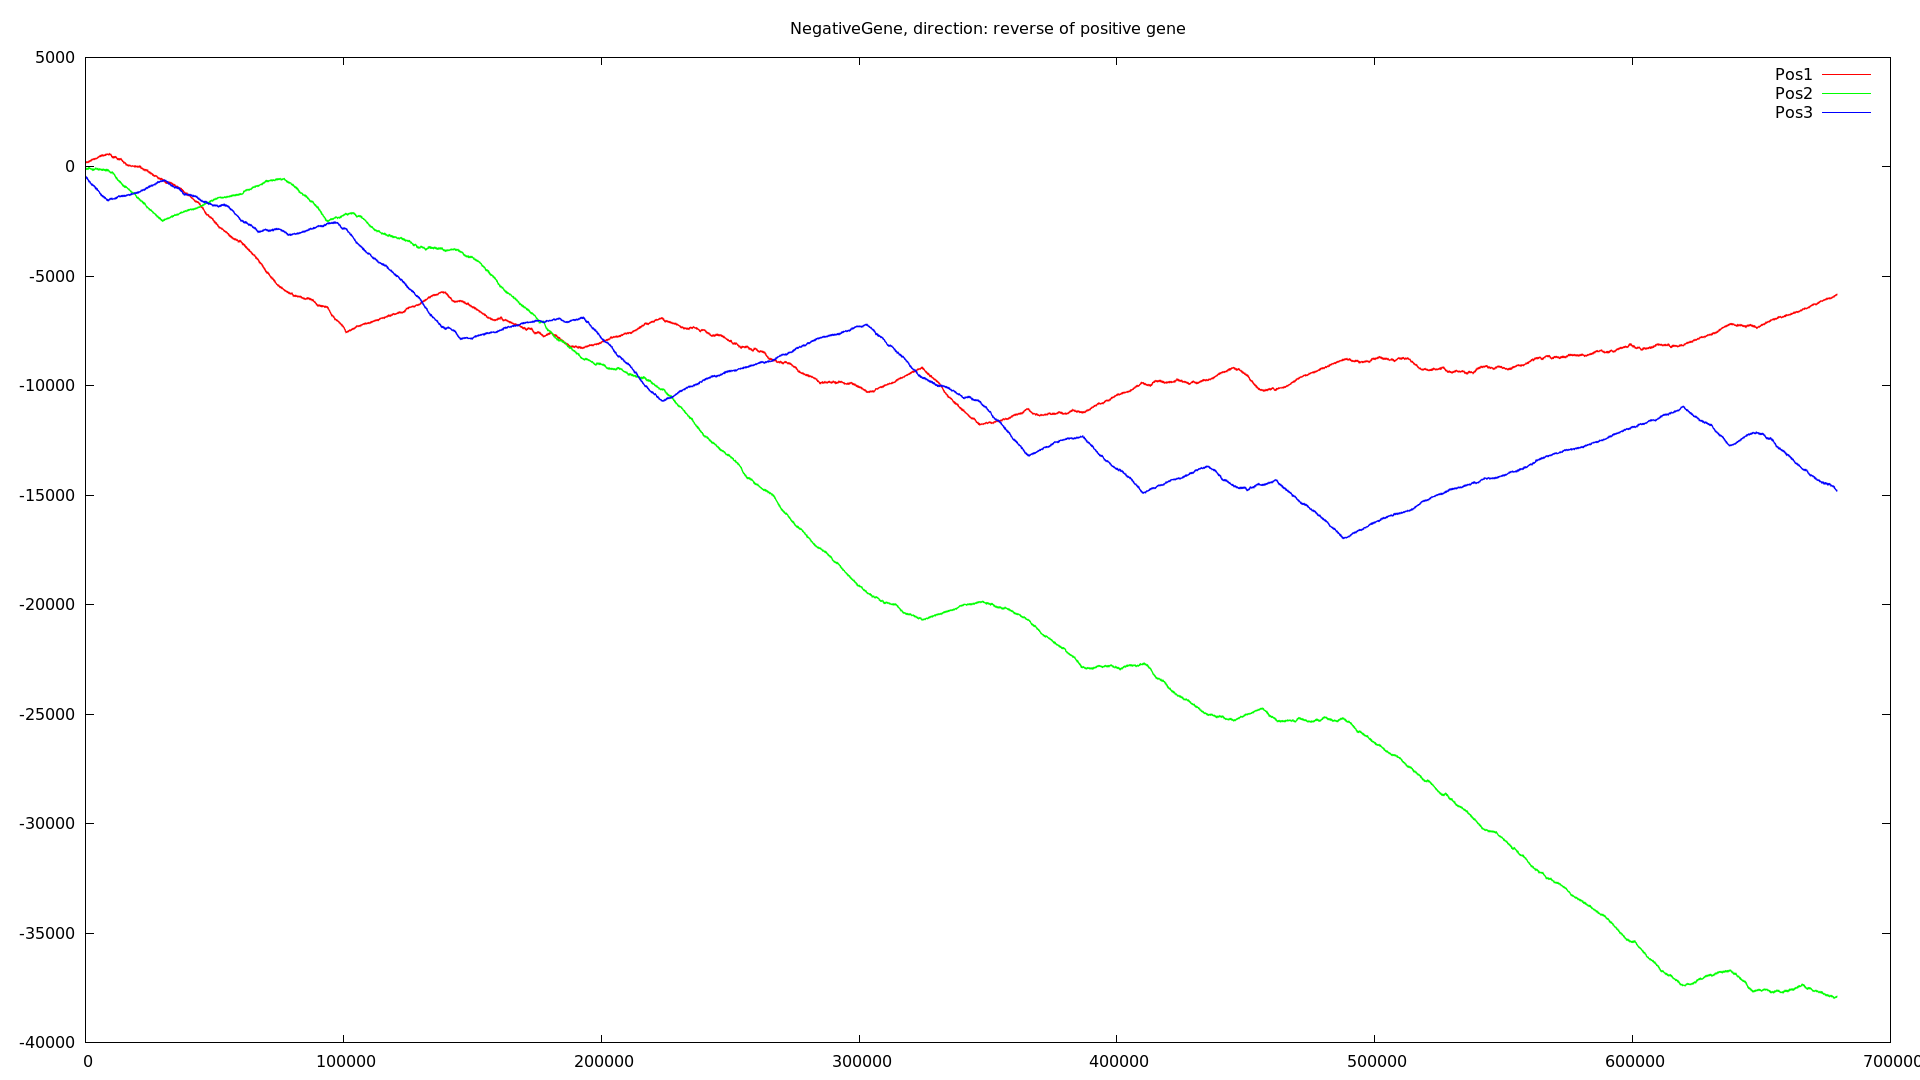
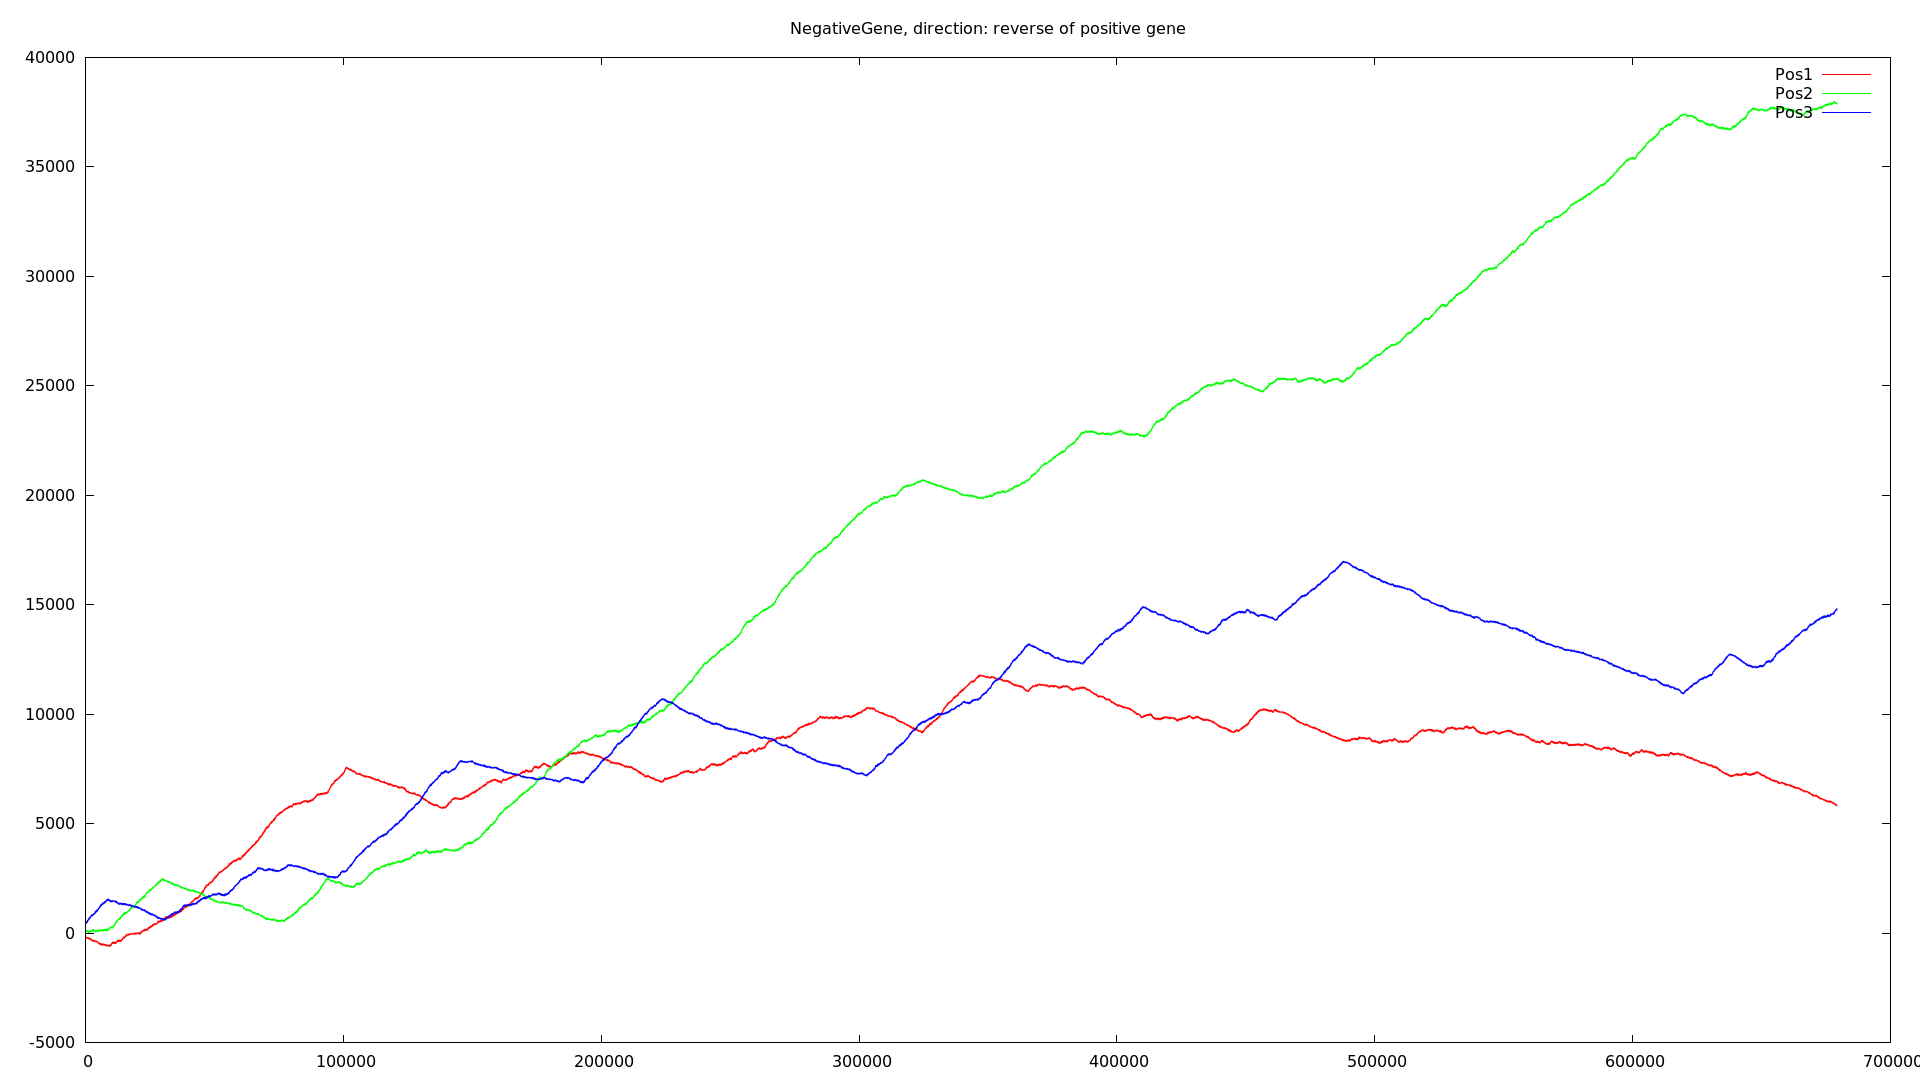
Making the nucleotides compliment when considered in negative strand

diff --git a/NucleotideSkew/IdentifyCodonPerSegment.py b/NucleotideSkew/IdentifyCodonPerSegment.py
@@ -310,8 +310,27 @@ def main(argv):
 				SegmentLookup.append(NumCodons)
 				NumGenesSegment.append(SegmentNumGenes)
 				#print "\n\t CurrGeneRange start: "+str(CurrGeneRanges[0])+" CodonRangeIdx: "+str(CodonRangeIdx)+" LenNucleotidesString: "+str(NucleotidestringLength)+" NumCodons: "+str(NumCodons)+" NumGenes "+str(SegmentNumGenes)
-				
-			CurrGeneNucleotides+=str(Genome[(CurrGeneRanges[0]-1):(CurrGeneRanges[1])])
+			CurrGeneSegmentNucleotideString=str(Genome[(CurrGeneRanges[0]-1):(CurrGeneRanges[1])])
+			NGeneDirCheck=re.match('\s*.*NGene$',CurrGene)
+			if(NGeneDirCheck):	
+				TempBaseString=''
+				for CurrBase in CurrGeneSegmentNucleotideString:
+					if(CurrBase=='A'):
+						TempBaseString+='T'
+					elif(CurrBase=='T'):
+						TempBaseString+='A'
+					elif(CurrBase=='G'):
+						TempBaseString+='C'
+					elif(CurrBase=='C'):
+						TempBaseString+='G'
+					else:
+						print "\n\t ERROR illegal bases: "+str(CurrBase)
+						sys.exit()
+				#print "\n\t Length comparison: len(CurrGeneSegmentNucleotideString): "+str(len(CurrGeneSegmentNucleotideString))+" len(TempBaseString) "+str(len(TempBaseString))
+				CurrGeneSegmentNucleotideString=TempBaseString
+					
+					
+			CurrGeneNucleotides+=CurrGeneSegmentNucleotideString #str(Genome[(CurrGeneRanges[0]-1):(CurrGeneRanges[1])])
 			NumGenes+=1
 			#print "\n\t CurrGeneRanges: "+str(CurrGeneRanges)+" Genes: "+str(Genome[(CurrGeneRanges[0]-1):(CurrGeneRanges[1])])
 		NucleotidestringLength=len(CurrGeneNucleotides)
@@ -323,6 +342,7 @@ def main(argv):
 		ObtainNucleotides[CurrGene].append(SegmentLookup)
 		ObtainNucleotides[CurrGene].append(NumGenesSegment)
 		print "\n\t Length nucleotide string: "+str(len(CurrGeneNucleotides))
+		
 
 	#sys.exit()
 	Nucleotides=['A','T','G','C']
@@ -338,10 +358,9 @@ def main(argv):
 				#print "\n\t Temp: "+str(Temp)
 		CodonCombisSet=copy.deepcopy(TempCodonCombisSet)
 		print "\n\t CurrVar: "+str(CurrVar)+" len(CurrCodonCombiSet): "+str(len(CodonCombisSet))
-		
 	
-	
-	CurrCodonFile=open('CodonDistributionPerSegment.log','w')
+	ResultFileName='CodonDistributionPerSegment_'+str(NucleotideSegmentLength)+'.log'
+	CurrCodonFile=open(ResultFileName,'w')
 	CurrCodonFile.write("\n\t Format: Codon")
 
 	CodonCount={}
@@ -428,7 +447,7 @@ def main(argv):
 				print "\n\t ERROR: Neither PGene or NGene "+str(CurrGene)+" \n"
 				sys.exit()
 
-	
+	print "\n\t Result is available in "+str(ResultFileName)
  	"""for CurrGene in ObtainNucleotides: 
  		CurrCodonFile.write("\t "+str(CurrGene) )
  		CodonCountCumulative=0

diff --git a/NucleotideSkew/NucleotideSkew.py b/NucleotideSkew/NucleotideSkew.py
@@ -345,8 +345,29 @@ def main(argv):
 	GeneNucleotideCount['3']={};GeneNucleotideCount['3']['G']=0;GeneNucleotideCount['3']['C']=0; 
 	
 	GeneIdx=1
+	
 	print "\n\t GeneNucleotides is pointing to "+str(ArrayGeneKeys[GeneIdx])
 	GeneNucleotides=ArrayGeneNucleotides[GeneIdx]
+	
+	if(GeneIdx==1):
+		print "\n\t Since reverse gene has been chosen, the nucleotides are replaced by their compliment "
+		TmpNucleotideString=''
+		for CurrBase in GeneNucleotides:
+			if(CurrBase=='A'):
+				TmpNucleotideString+='T'
+			elif(CurrBase=='T'):
+				TmpNucleotideString+='A'
+			elif(CurrBase=='G'):
+				TmpNucleotideString+='C'
+			elif(CurrBase=='C'):
+				TmpNucleotideString+='G'
+			else:
+				print "\n\t ERROR: Invalid character found to represent a nucleotide base. "
+				sys.exit()
+		print "\n\t Length actual string: "+str(len(GeneNucleotides))+" reverse string "+str(len(TmpNucleotideString))
+		GeneNucleotides=TmpNucleotideString
+			
+	
 	
 	#print "\n\t WARNING: GeneNucleotides points to NonGeneNucleotides "
 	GeneLen=len(GeneNucleotides)
